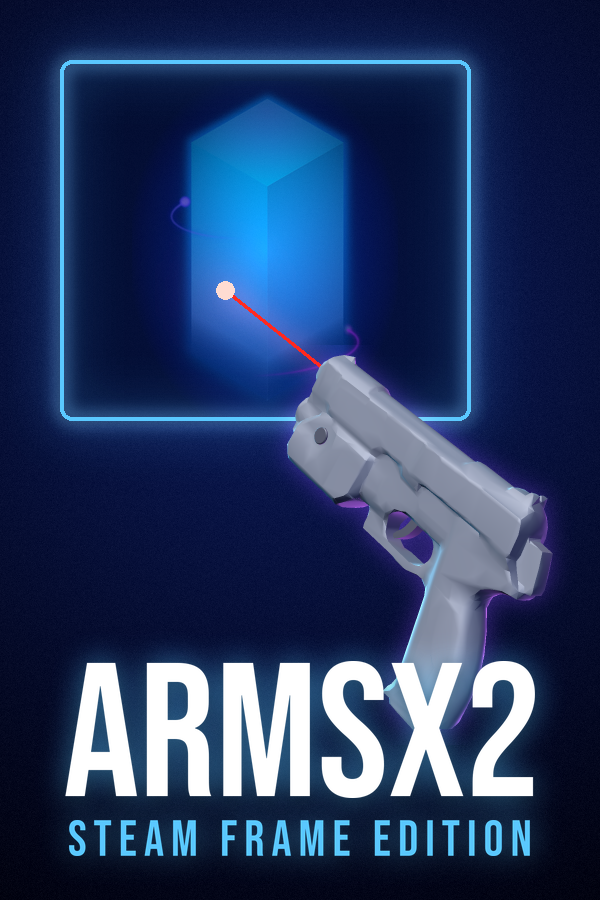
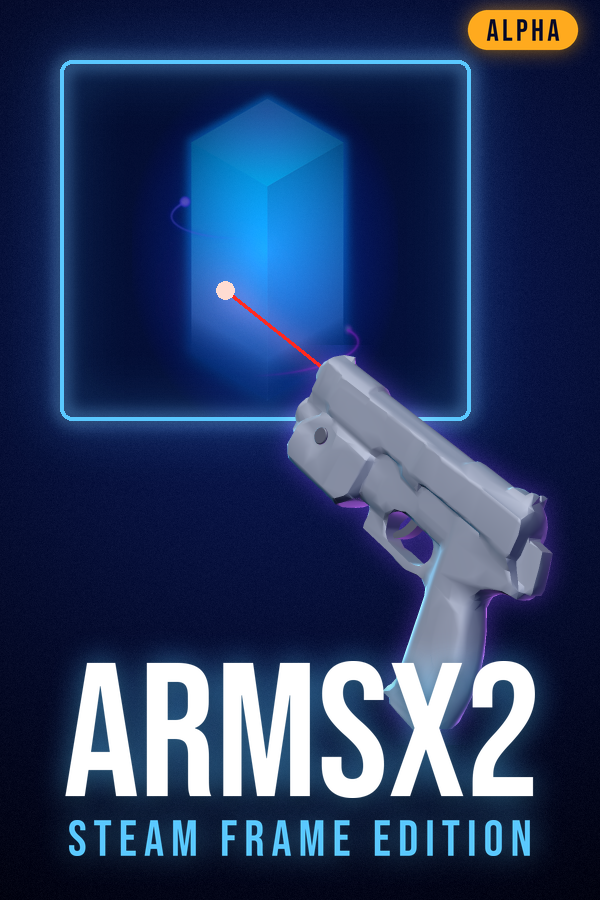
Art: ALPHA badge on the Steam library art; README says Alpha
The project still needs testing, so the art that ships carries an amber
ALPHA pill: assets/steam/ (capsule, wide, hero, logo, icon) and the
installer page's hero.jpg and logo.png, which make_art.py now writes too.
The regular art is kept in assets/steam-final/ (identical to the art
before), and ALPHA = False in make_art.py switches back after Alpha.

The README opens with an Alpha notice asking testers for reports.

Changed region(s): [[0.75, 0.0, 0.99, 0.0933]]

diff --git a/tools/steam-art/make_art.py b/tools/steam-art/make_art.py
@@ -1,4 +1,5 @@
-"""Build the Steam library artwork for "ARMSX2 - Steam Frame Edition" into assets/steam/.
+"""Build the Steam library artwork for "ARMSX2 - Steam Frame Edition" into assets/steam/, the regular set without the
+Alpha badge into assets/steam-final/, and the installer page's hero.jpg and logo.png.
 Usage: python make_art.py <repo root>
 Sources: the ARMSX2 app icon (glowing pillar), the Bebas Neue font from the ARMSX2 Android app
 and assets/lightgun.glb. Needs Python 3 with numpy and pillow."""
@@ -14,9 +15,15 @@ PILLAR = os.path.join(ARMSX2, 'platforms/ios/app/src/main/assets/app_icons/icon.
 BEBAS = os.path.join(ARMSX2, 'platforms/android/app/src/main/res/font/bebas_neue.ttf')
 GLB = os.path.join(ROOT, 'assets/lightgun.glb')
 OUT = os.path.join(ROOT, 'assets/steam')
+FINAL = os.path.join(ROOT, 'assets/steam-final')
+UI = os.path.join(ROOT, 'tools/steam-frame/installer/ui')
+
+# While the project is in Alpha, the art that ships (assets/steam/, the installer page) carries an ALPHA badge.
+# Leaving Alpha: set this to False and rerun (or copy assets/steam-final/ over assets/steam/).
+ALPHA = True
 
 TITLE, SUBTITLE = 'ARMSX2', 'STEAM FRAME EDITION'
-CYAN = (90, 200, 255); VIOLET = (170, 80, 255); RED = (255, 40, 30)
+CYAN = (90, 200, 255); VIOLET = (170, 80, 255); RED = (255, 40, 30); AMBER = (255, 170, 30)
 
 # ---------- helpers ----------
 
@@ -93,6 +100,32 @@ def put_title(canvas, blk, pos, glow_r):
     canvas.alpha_composite(blk, pos)
     return canvas
 
+def alpha_badge(height):
+    """Amber 'ALPHA' pill, `height` px tall, with a transparent margin of half its height for its halo."""
+    k = 4  # drawn 4x larger, then scaled down, for smooth edges
+    h = height * k
+    txt = text_layer('ALPHA', ImageFont.truetype(BEBAS, 200), tracking=22, fill=(8, 12, 40, 255))
+    th = round(h * 0.54)
+    txt = txt.resize((round(txt.width * th / txt.height), th), Image.LANCZOS)
+    w, m = txt.width + round(h * 0.95), h // 2
+    pill = Image.new('RGBA', (w + 2 * m, h + 2 * m), (0, 0, 0, 0))
+    ImageDraw.Draw(pill).rounded_rectangle((m, m, m + w - 1, m + h - 1), radius=h // 2, fill=AMBER + (255,))
+    pill.alpha_composite(txt, (m + (w - txt.width) // 2, m + (h - txt.height) // 2))
+    return pill.resize((pill.width // k, pill.height // k), Image.LANCZOS)
+
+def put_badge(canvas, height, right, top):
+    """The Alpha badge with its top-right corner at (right, top): a dark shadow, an amber halo, then the pill."""
+    b = alpha_badge(height)
+    m = height // 2
+    pos = (right - b.width + m, top - m)
+    shadow = Image.new('RGBA', canvas.size, (0, 0, 0, 0))
+    sh = Image.new('RGBA', b.size, (0, 0, 10, 0)); sh.putalpha(b.getchannel('A').point(lambda v: v * 0.8))
+    shadow.alpha_composite(sh, (pos[0], pos[1] + max(2, height // 12)))
+    canvas.alpha_composite(shadow.filter(ImageFilter.GaussianBlur(height / 6)))
+    canvas = add(canvas, glow(b, height / 4, AMBER, 0.6), pos)
+    canvas.alpha_composite(b, pos)
+    return canvas
+
 def portal(canvas, box, width, pillar_h=None):
     """The volumetric window: a glowing frame with the ARMSX2 pillar standing inside it."""
     x0, y0, x1, y1 = box
@@ -149,7 +182,7 @@ def solve_shot(yaw, pitch, size, fill, pos, target):
 
 # ---------- the five images ----------
 
-def capsule():
+def capsule(badge=False):
     """Library capsule, 600x900 (<appid>p.png)."""
     W, H = 600, 900
     c = background(W, H, (0.5, 0.33))
@@ -159,9 +192,10 @@ def capsule():
     s = solve_shot(-0.6, 0.3, size, 0.95, pos, target)
     c = place_gun(c, s, pos, target, beam_w=3)
     blk = title_block(470)
-    return put_title(c, blk, ((W - blk.width) // 2, H - blk.height - 6), 14)
+    c = put_title(c, blk, ((W - blk.width) // 2, H - blk.height - 6), 14)
+    return put_badge(c, 40, W - 22, 10) if badge else c
 
-def wide():
+def wide(badge=False):
     """Wide capsule / library header, 920x430 (<appid>.png)."""
     W, H = 920, 430
     c = background(W, H, (0.68, 0.45))
@@ -171,9 +205,10 @@ def wide():
     s = solve_shot(-0.7, 0.3, size, 0.95, pos, target)
     c = place_gun(c, s, pos, target, beam_w=3)
     blk = title_block(330)
-    return put_title(c, blk, (22, (H - blk.height) // 2 - 5), 10)
+    c = put_title(c, blk, (22, (H - blk.height) // 2 - 5), 10)
+    return put_badge(c, 34, W - 20, 18) if badge else c
 
-def hero():
+def hero(badge=False):
     """Game page hero, 1920x620 (<appid>_hero.png). No text: Steam draws the logo over its left side."""
     W, H = 1920, 620
     c = background(W, H, (0.6, 0.45))
@@ -188,29 +223,49 @@ def hero():
     dark = Image.fromarray((shade * 255).astype(np.uint8), 'L')
     black = Image.new('RGBA', (W, H), (1, 2, 12, 255)); black.putalpha(dark)
     c.alpha_composite(black)
-    return c
+    # inset so it survives Steam cropping the hero to the window's shape
+    return put_badge(c, 56, W - 115, 62) if badge else c
 
-def logo():
+def logo(badge=False):
     """Transparent logo for the game page (<appid>_logo.png): the title with a soft dark halo."""
     blk = title_block(1100)
     halo = Image.new('RGBA', blk.size, (0, 0, 8, 0))
     halo.putalpha(blk.getchannel('A').filter(ImageFilter.GaussianBlur(10)).point(lambda v: min(255, v * 1.2)))
     c = Image.new('RGBA', blk.size, (0, 0, 0, 0))
     c.alpha_composite(halo, (0, 5)); c.alpha_composite(blk)
+    if badge:  # under the right end of STEAM FRAME EDITION, in the block's bottom padding
+        pad, bh = round(1100 * 0.08), 64
+        room = Image.new('RGBA', (c.width, c.height + bh), (0, 0, 0, 0)); room.alpha_composite(c)
+        c = put_badge(room, bh, c.width - pad - 4, c.height - pad + 30)
     return c.crop(c.getbbox())
 
-def icon():
+def icon(badge=False):
     """Square icon, 256x256: the ARMSX2 pillar with the light gun in front."""
     S = 512
     c = Image.open(PILLAR).convert('RGBA').resize((S, S), Image.LANCZOS)
     s = gun.Shot(GLB, 0.7, 0.2, np.radians(-8), size=(330, 260), fill=0.98)
     c = place_gun(c, s, (S - 340, S - 250))
+    if badge:
+        c = put_badge(c, 84, S - 18, 18)
     return c.resize((256, 256), Image.LANCZOS)
 
+def save(im, folder, name):
+    if name != 'logo.png' and name != 'icon.png': im = im.convert('RGB')
+    im.save(os.path.join(folder, name), optimize=True)
+    print(os.path.relpath(os.path.join(folder, name), ROOT), im.size)
+
 if __name__ == '__main__':
-    os.makedirs(OUT, exist_ok=True)
+    os.makedirs(OUT, exist_ok=True); os.makedirs(FINAL, exist_ok=True)
+    shipped = {}
     for name, fn in [('capsule.png', capsule), ('wide.png', wide), ('hero.png', hero), ('logo.png', logo), ('icon.png', icon)]:
-        im = fn()
-        if name != 'logo.png' and name != 'icon.png': im = im.convert('RGB')
-        im.save(os.path.join(OUT, name), optimize=True)
-        print(name, im.size)
+        plain = fn()
+        save(plain, FINAL, name)
+        shipped[name] = fn(badge=True) if ALPHA else plain
+        save(shipped[name], OUT, name)
+    # The installer page shows the hero behind its header and the logo in it (at 96 px tall)
+    h = shipped['hero.png'].convert('RGB').resize((1500, 484), Image.LANCZOS)
+    h.save(os.path.join(UI, 'hero.jpg'), quality=88, optimize=True)
+    lg = shipped['logo.png']
+    lg = lg.resize((round(lg.width * 228 / lg.height), 228), Image.LANCZOS)
+    lg.save(os.path.join(UI, 'logo.png'), optimize=True)
+    print('installer ui: hero.jpg', h.size, 'logo.png', lg.size)

diff --git a/README.md b/README.md
@@ -2,7 +2,10 @@
 
 A standalone PlayStation 2 emulator for the Steam Frame. It runs [ARMSX2](https://github.com/ARMSX2/ARMSX2) (an ARM64 fork of PCSX2) inside a native OpenXR app and shows the game on a virtual screen, either **volumetric** (the game drawn from each eye, so the world sits behind the screen like a window) or **flat**, switched at once from a button beside the screen. Light gun games are played with GunCon 2 guns held in the hands. Everything is driven from the headset: a settings menu, a game list, pause and quit buttons, controller mapping, HD texture packs and Wi-Fi transfer of games, BIOS files and texture packs (zip, 7z and RAR archives are unpacked on the headset).
 
-> **Status.** On the Steam Frame (headset tests on 2026-10-12 and 13): the menu, its buttons and tooltips, the game list and the pointer; volumetric and flat modes and switching between them; pause and quit; the light gun in Time Crisis II, with one gun (steady in the hand, the beam landing on what is behind the glass, calibration with the trigger, gun colours), and in Ninja Assault (the beam into the window); and HD texture packs sent over Wi-Fi. The rest of Wi-Fi transfer, every settings page, controller mapping and two-gun play still need a full pass in the headset. See [Known limitations](#known-limitations). The project plan and milestone notes are in [`PLAN.md`](PLAN.md) and [`docs/`](docs).
+> [!WARNING]
+> **Alpha.** This project is in its Alpha stage and needs more testing. Much of it has only been tried on a desktop or in a few games, so expect bugs, crashes and settings that change between releases. The Steam library art carries an **ALPHA** badge until testing is done. If you try it, please report what you find: the games you played, what went wrong, and the logs from `~/.local/share/ps2v/logs/`. Known gaps are in [Known limitations](#known-limitations).
+
+> **Status: Alpha.** What has been tried on the Steam Frame (headset tests on 2026-10-12 and 13): the menu, its buttons and tooltips, the game list and the pointer; volumetric and flat modes and switching between them; pause and quit; the light gun in Time Crisis II, with one gun (steady in the hand, the beam landing on what is behind the glass, calibration with the trigger, gun colours), and in Ninja Assault (the beam into the window); and HD texture packs sent over Wi-Fi. The rest of Wi-Fi transfer, every settings page, controller mapping and two-gun play still need a full pass in the headset. See [Known limitations](#known-limitations). The project plan and milestone notes are in [`PLAN.md`](PLAN.md) and [`docs/`](docs).
 
 ## Contents
 
@@ -46,7 +49,7 @@ tools/run-frame.sh path/to/game.iso   # starts a game directly
 
 ### Install in the Steam library
 
-The game installs in the Frame's Steam library as **ARMSX2 - Steam Frame Edition**, with its artwork and icon from `assets/steam/`. Players use the installer app for Windows, macOS and Linux. It finds the Frame on the network, signs in, and installs or updates the latest GitHub release in one click. For development, `tools/steam-frame/deploy-to-frame.sh` builds on the Frame and updates that same library entry with the build, using the same steps. Releases, the installer app and the deploy script are covered in [`tools/steam-frame/README.md`](tools/steam-frame/README.md).
+The game installs in the Frame's Steam library as **ARMSX2 - Steam Frame Edition**, with its artwork and icon from `assets/steam/`. While the project is in Alpha, that art carries an **ALPHA** badge; the same art without the badge is kept in `assets/steam-final/` for the first release after Alpha (see [`tools/steam-art/README.md`](tools/steam-art/README.md)). Players use the installer app for Windows, macOS and Linux. It finds the Frame on the network, signs in, and installs or updates the latest GitHub release in one click. For development, `tools/steam-frame/deploy-to-frame.sh` builds on the Frame and updates that same library entry with the build, using the same steps. Releases, the installer app and the deploy script are covered in [`tools/steam-frame/README.md`](tools/steam-frame/README.md).
 
 ### First run
 
@@ -403,7 +406,7 @@ The host code is in [`host/`](host); ARMSX2 is the submodule [`external/armsx2`]
 
 ## Known limitations
 
-- **Only partly tested in the headset.** See the status note at the top; the rest was tested on a desktop, and the headset may still show things the desktop could not, such as runtime binding quirks or performance.
+- **Alpha: only partly tested in the headset.** See the Alpha and status notes at the top; the rest was tested on a desktop, and the headset may still show things the desktop could not, such as runtime binding quirks or performance.
 - If the runtime rejects the controllers' aim pose, the gamepad still works but menus cannot be pointed at. The log says "no aim pose …; the menu pointer is unavailable."
 - In volumetric mode, both eyes may show the same picture while a menu has the game paused.
 - Flat mode still has the emulator draw both eyes, so it costs as much GPU time as volumetric.

diff --git a/tools/steam-art/README.md b/tools/steam-art/README.md
@@ -1,6 +1,8 @@
 # Steam library artwork
 
-`make_art.py` builds the Steam library images for **ARMSX2 - Steam Frame Edition** into `assets/steam/`. The installer copies them into Steam's grid folder when it adds the non-Steam shortcut.
+`make_art.py` builds the Steam library images for **ARMSX2 - Steam Frame Edition** into `assets/steam/`. The installer copies them into Steam's grid folder when it adds the non-Steam shortcut. The script also writes the installer app's page images, `tools/steam-frame/installer/ui/hero.jpg` (the hero at 1500×484) and `logo.png` (the logo at 228 px tall), from the same art.
+
+While the project is in Alpha, every image that ships has an **ALPHA** badge: `assets/steam/` and the installer page images. The same five images without the badge are written to `assets/steam-final/` on each run, ready for when the project leaves Alpha.
 
 ![capsule](../../assets/steam/capsule.png)
 
@@ -21,7 +23,7 @@ Steam keys a non-Steam shortcut's artwork by the shortcut's app ID (`<id>`, the 
 | `capsule.png` | 600×900 | `<id>p.png` | Library capsule (portrait) |
 | `wide.png` | 920×430 | `<id>.png` | Wide capsule, recent games |
 | `hero.png` | 1920×620 | `<id>_hero.png` | Game page banner; has no text, because Steam draws the logo over its left side |
-| `logo.png` | 1148×504, transparent | `<id>_logo.png` | Logo over the hero |
+| `logo.png` | 1148×600 with the Alpha badge (1148×504 without), transparent | `<id>_logo.png` | Logo over the hero |
 | `icon.png` | 256×256, transparent | the shortcut's `icon` field (a path) | List and game page icon |
 
 ## What goes into them
@@ -30,5 +32,12 @@ Steam keys a non-Steam shortcut's artwork by the shortcut's app ID (`<id>`, the 
 - **Title font.** Bebas Neue, shipped by the ARMSX2 Android app (`res/font/bebas_neue.ttf`, SIL Open Font License 1.1). Only rendered text is in the images; the font file is not copied.
 - **Light gun.** `assets/lightgun.glb`, rendered by `gun.py`. This is a numpy rasteriser with perspective, cyan and violet rim lights in the ARMSX2 palette, and emissive lenses with bloom. Each scene picks the camera roll so the bore points at the red aim dot in the window (`solve_shot`).
 - **The window.** The glowing frame stands for the volumetric window the game is shown in on the Frame.
+- **Alpha badge.** An amber pill reading "ALPHA" in Bebas Neue, with an amber halo (`alpha_badge`, `put_badge`). It goes in the top right corner of the capsule, the wide capsule, the hero (set in from the edges so Steam's cropping keeps it) and the icon, and under the end of "STEAM FRAME EDITION" in the logo. The `ALPHA` constant at the top of `make_art.py` turns it on.
+
+## Leaving Alpha
+
+Set `ALPHA = False` at the top of `make_art.py` and rerun it: `assets/steam/` and the installer page images then come out without the badge. You can also copy `assets/steam-final/*` over `assets/steam/`, but that leaves the installer page images badged. After either one, make a release (or run `deploy-to-frame.sh`) and rebuild the installer app, whose icon comes from `icon.png`.
+
+## Changing the layout
 
 To change the layout, edit the per-image functions (`capsule`, `wide`, `hero`, `logo`, `icon`). Each one sets the window box, the aim target, and the gun's render size and position in that image's pixels.
